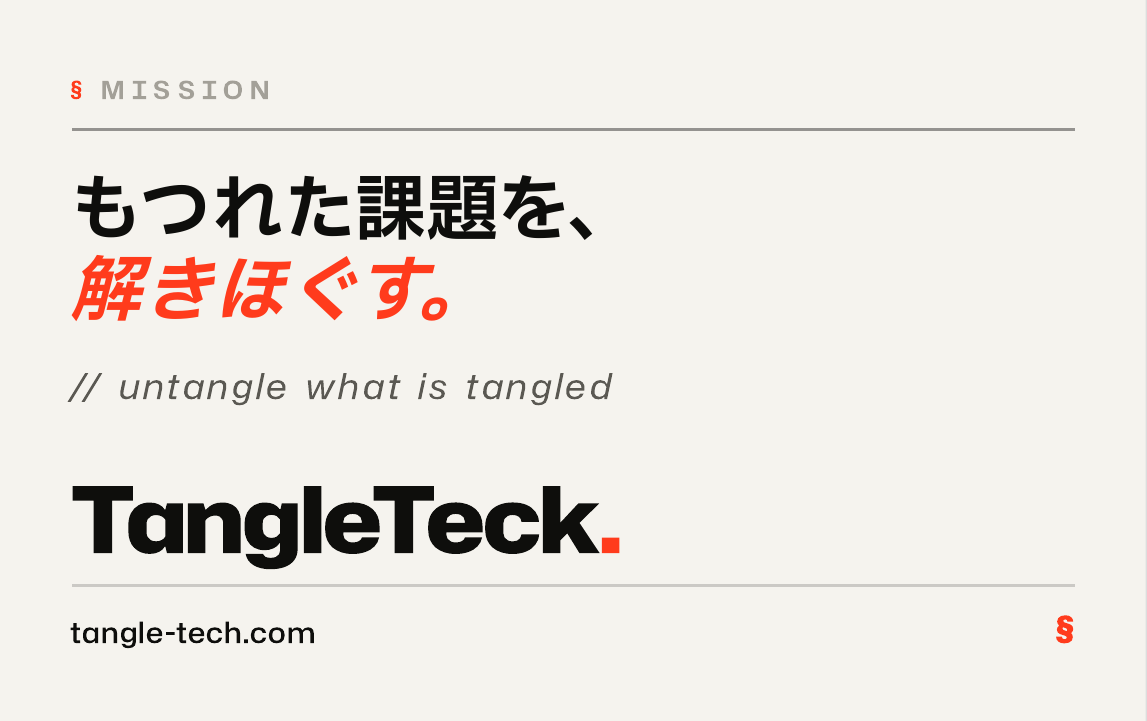
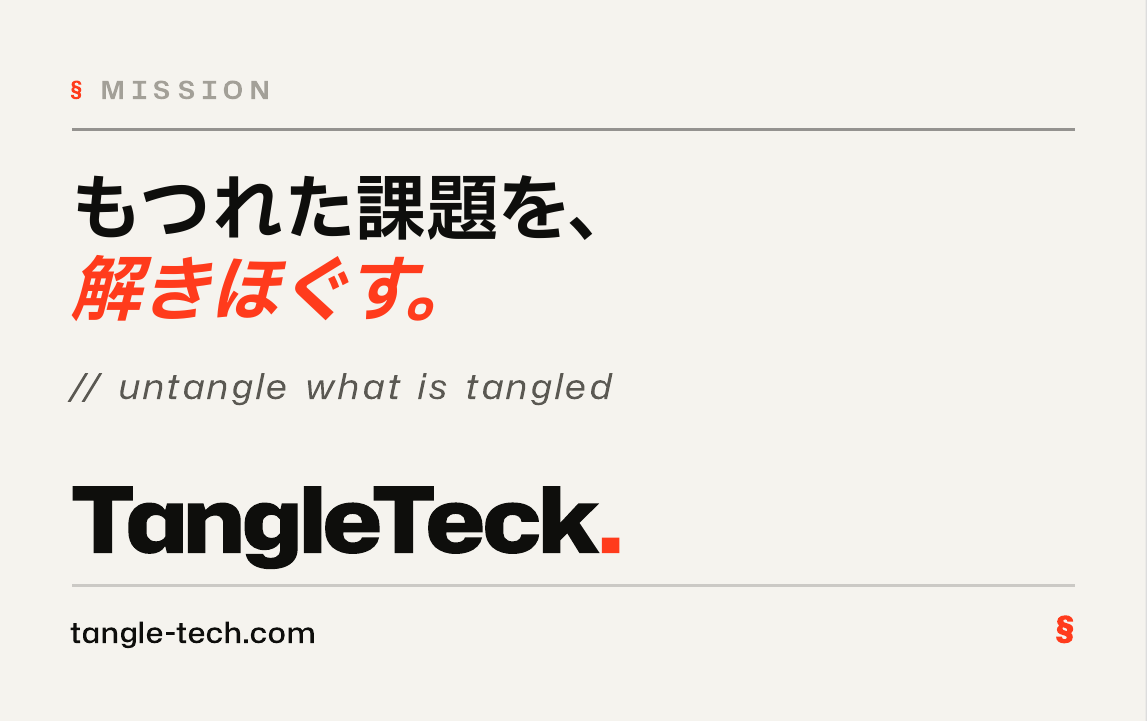
Tighten 解きほぐす accent tracking
The italic skew added visual air between glyphs, making the resolution
word read as four loose characters rather than one motion. Drops tracking
to -0.03em on this run only so it cohere as a single gesture.

Changed region(s): [[0.1221, 0.3356, 0.3967, 0.4577]]

diff --git a/business_cards/card.html b/business_cards/card.html
@@ -186,6 +186,7 @@
       .back .tagline .accent-word {
         color: var(--accent);
         font-style: italic;
+        letter-spacing: -0.03em;
       }
       .back .paraphrase {
         margin-top: 2.5mm;

diff --git a/business_cards/build_meishi.py b/business_cards/build_meishi.py
@@ -199,7 +199,7 @@ def back_yoko() -> str:
     # upright problem-statement above.)
     shapes.append(text_box(121, "tagline-l2", SAFE_L, 23.5, SAFE_W, 7, [
         text_run("解きほぐす。", 17, ACCENT, latin=LATIN, ea=JP, bold=True,
-                 italic=True, tracking_em=0.01),
+                 italic=True, tracking_em=-0.03),
     ]))
 
     # Paraphrase — // untangle what is tangled (italic).
